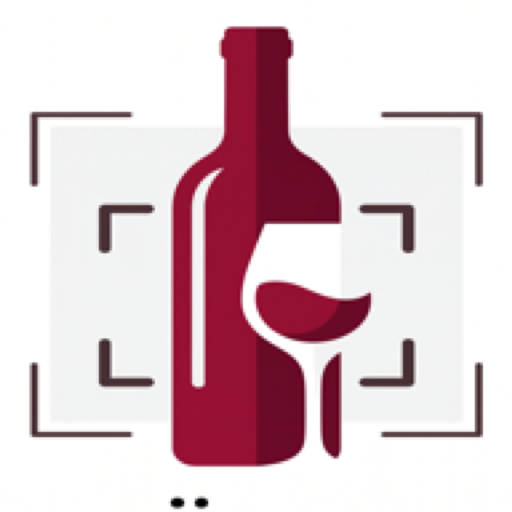
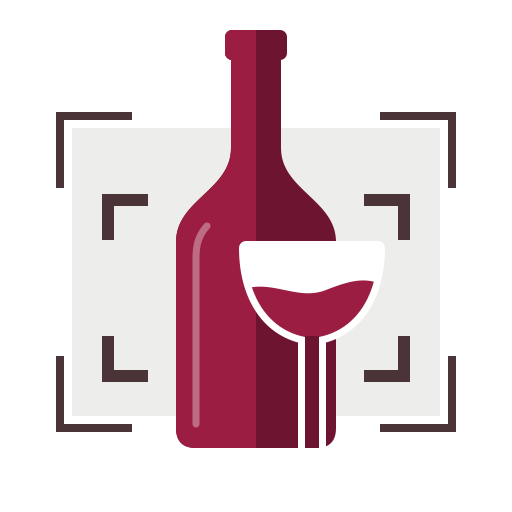
Реализованы новые иконки и загрузочные экраны PWA: конфигурация PWA, манифест, meta-теги, добавлена обработка заставок в сборке, добавлены новые файлы иконок и заставок.

diff --git a/web/nuxt.config.ts b/web/nuxt.config.ts
@@ -2,6 +2,7 @@
 // Всё общение с ML-сервисом идёт через серверные маршруты Nuxt (/api/*), поэтому CORS сервису
 // не нужен, а адрес сервиса задаётся одной переменной окружения NUXT_SCANNER_URL.
 import { buildPwa } from "./scripts/build-pwa.mjs";
+import { SPLASH_SCREENS } from "./scripts/splash-screens.mjs";
 
 export default defineNuxtConfig({
   compatibilityDate: "2025-01-01",
@@ -41,13 +42,21 @@ export default defineNuxtConfig({
         { name: "viewport", content: "width=device-width, initial-scale=1, viewport-fit=cover" },
         { name: "theme-color", content: "#8F3D42" },
         { name: "apple-mobile-web-app-capable", content: "yes" },
+        { name: "mobile-web-app-capable", content: "yes" },
+        { name: "apple-mobile-web-app-status-bar-style", content: "default" },
         { name: "apple-mobile-web-app-title", content: "Своё Вино" },
         { name: "description", content: "Сфотографируйте этикетку — найдём карточку вина на платформе «Своё Вино»" },
       ],
       link: [
         { rel: "manifest", href: "/manifest.webmanifest" },
-        { rel: "apple-touch-icon", href: "/icon.png" },
+        { rel: "apple-touch-icon", href: "/apple-touch-icon.png" },
+        { rel: "icon", type: "image/svg+xml", href: "/icon.svg" },
         { rel: "icon", type: "image/png", href: "/icon.png" },
+        ...SPLASH_SCREENS.map(([width, height, ratio]) => ({
+          rel: "apple-touch-startup-image",
+          href: `/splash/${width * ratio}x${height * ratio}.png`,
+          media: `(device-width: ${width}px) and (device-height: ${height}px) and (-webkit-device-pixel-ratio: ${ratio}) and (orientation: portrait)`,
+        })),
         { rel: "preconnect", href: "https://fonts.googleapis.com" },
         { rel: "preconnect", href: "https://fonts.gstatic.com", crossorigin: "" },
         {

diff --git a/web/scripts/rasterize-svg.swift b/web/scripts/rasterize-svg.swift
@@ -1,0 +1,17 @@
+// Растеризует SVG в PNG средствами AppKit (macOS), без внешних зависимостей.
+// Аргументы — четвёрки: <svg> <png> <ширина> <высота>.
+import AppKit
+
+let args = Array(CommandLine.arguments.dropFirst())
+for i in stride(from: 0, to: args.count, by: 4) {
+  guard let image = NSImage(contentsOf: URL(fileURLWithPath: args[i])) else { fatalError("Не читается \(args[i])") }
+  let width = Int(args[i + 2])!, height = Int(args[i + 3])!
+  let bitmap = NSBitmapImageRep(bitmapDataPlanes: nil, pixelsWide: width, pixelsHigh: height, bitsPerSample: 8,
+                                samplesPerPixel: 4, hasAlpha: true, isPlanar: false, colorSpaceName: .deviceRGB,
+                                bytesPerRow: 0, bitsPerPixel: 0)!
+  NSGraphicsContext.saveGraphicsState()
+  NSGraphicsContext.current = NSGraphicsContext(bitmapImageRep: bitmap)
+  image.draw(in: NSRect(x: 0, y: 0, width: width, height: height))
+  NSGraphicsContext.restoreGraphicsState()
+  try! bitmap.representation(using: .png, properties: [:])!.write(to: URL(fileURLWithPath: args[i + 1]))
+}
